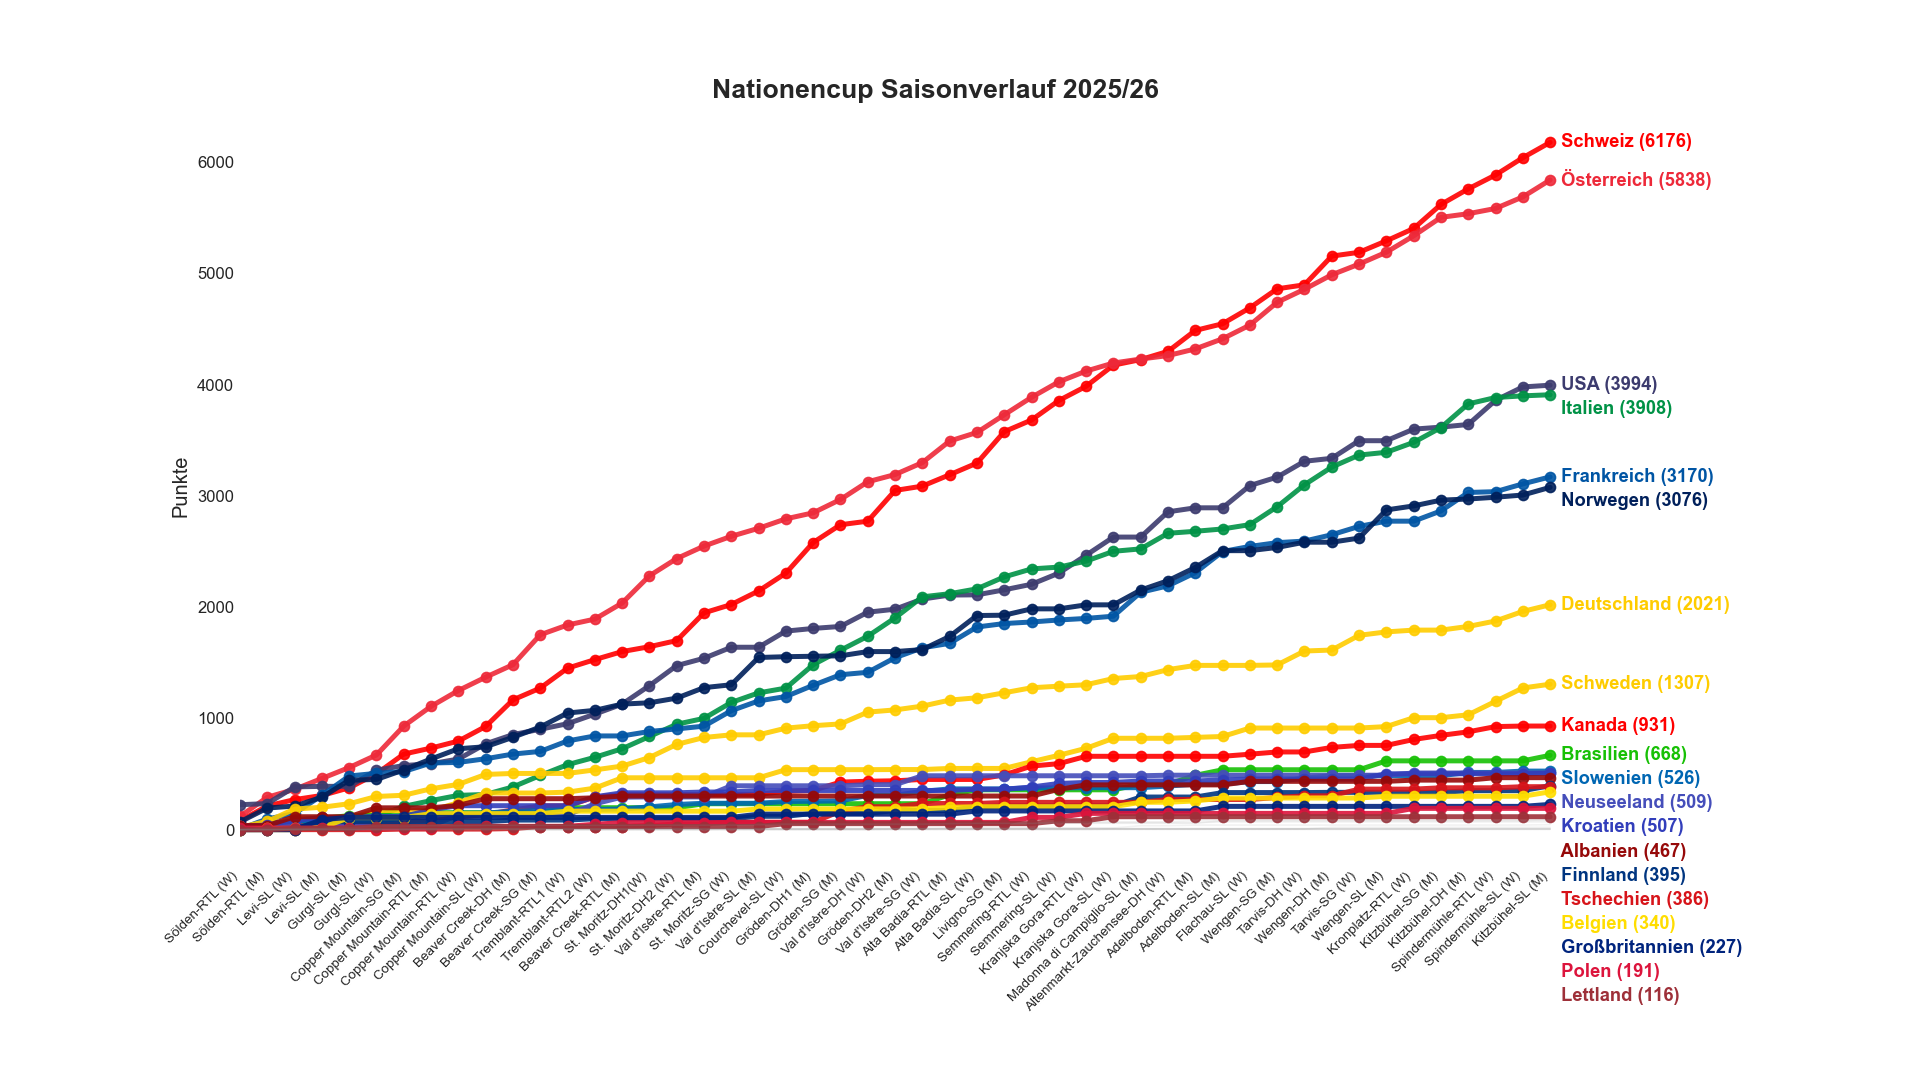
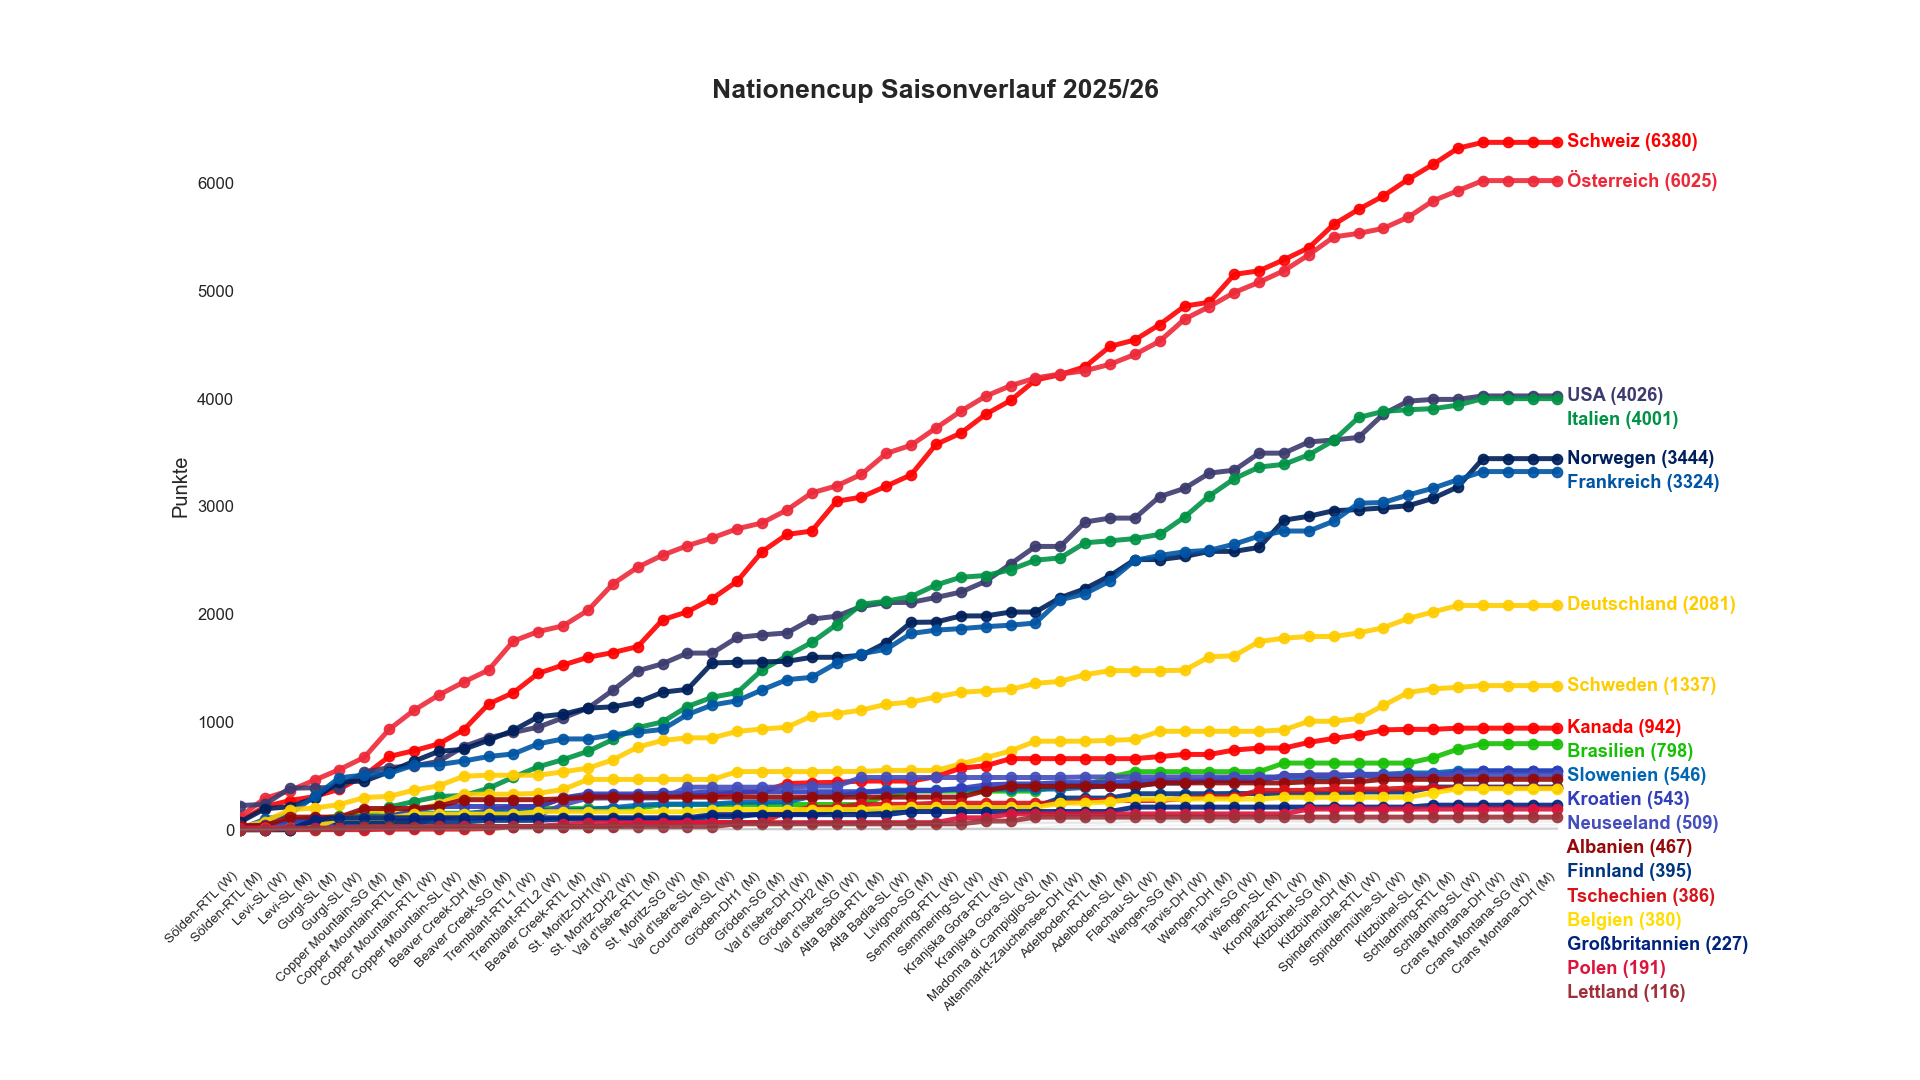
updating

diff --git a/scraper.py b/scraper.py
@@ -34,7 +34,8 @@ season_races = [
     127340, 127341, 127342, 127343, 127344, 127347, 127348, 127350, 127349, 
     127351, 127352, 127339, 127357, 127360, 127356, 127361, 127362, 127363, 127364, 
     127365, 127366, 127367, 127368, 127369, 127372, 127374, 127375, 127376, 127380, 
-    127385, 127381, 127386, 127382, 127387, 127391, 127392, 127394, 127395, 127393
+    127385, 127381, 127386, 127382, 127387, 127391, 127392, 127394, 127395, 127393,
+    127396, 127397, 127400, 127402, 127404
 ]
 # Link für die FIS-Seite zum schnelleren Suchen und Hinzufügen neuer IDs: 
 # https://www.fis-ski.com/DB/alpine-skiing/calendar-results.html?eventselection=&place=&sectorcode=AL&seasoncode=2026&categorycode=WC&disciplinecode=&gendercode=&racedate=&racecodex=&nationcode=&seasonmonth=X-2026&saveselection=-1&seasonselection=

diff --git a/ski_nationencup_25-26.py b/ski_nationencup_25-26.py
@@ -100,7 +100,12 @@ RACE_ID_TO_NAME = {
     "127392": "Kitzbühel-DH (M)",
     "127394": "Spindermühle-RTL (W)",
     "127395": "Spindermühle-SL (W)",
-    "127393": "Kitzbühel-SL (M)"
+    "127393": "Kitzbühel-SL (M)",
+    "127396": "Schladming-RTL (M)",
+    "127397": "Schladming-SL (W)",
+    "127400": "Crans Montana-DH (W)",
+    "127402": "Crans Montana-SG (W)",
+    "127404": "Crans Montana-DH (M)"
 }
 
 # Liste der Nationen, die beschriftet werden sollen (Namen müssen zum Mapping oben passen)
